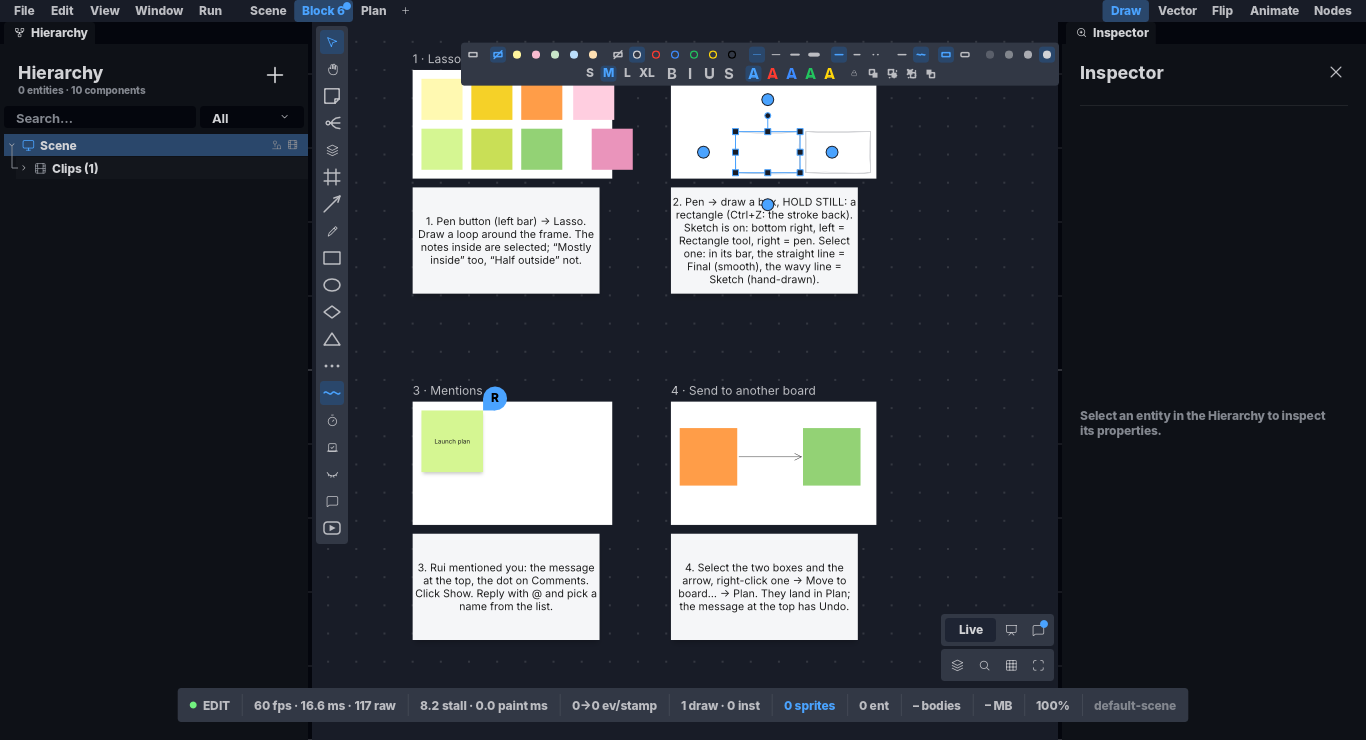
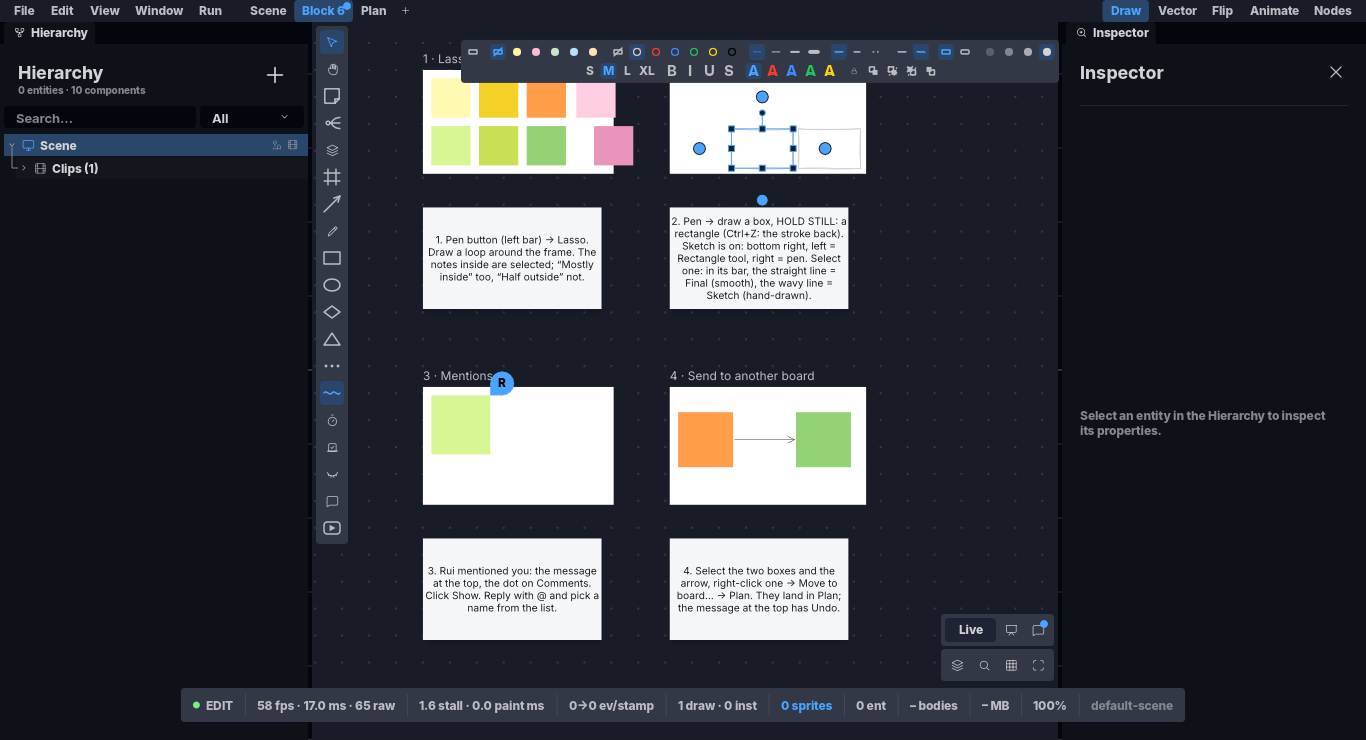
fix(MiroClone W23 cena 28): as lições a 4×GAP dos frames — com o exemplo de ② seleccionado à abertura, os pontos de ligação tapavam a 1.ª linha da lição ② (fotos 1366/1930); centrar os exemplos foi recusado: a 1366 a barra da forma descia para cima da lição

diff --git a/crates/ph2d-app-board/src/smoke_w23_block6.rs b/crates/ph2d-app-board/src/smoke_w23_block6.rs
@@ -47,6 +47,10 @@ const F4: [f64; 4] = [F2[0], ROW2, F2[2], 420.0];
 /// Os exemplos do rascunho no canto de baixo à direita de ②: a caixa e o vão.
 const EXAMPLE: [f64; 2] = [220.0, 140.0];
 const EXAMPLE_GAP: f64 = 20.0;
+/// O vão entre um frame e a lição dele: a cena abre com o exemplo de ② seleccionado, e os pontos de
+/// ligação (32 px de ecrã abaixo da caixa, ~110 do mundo a 1366) tapavam a 1.ª linha da lição com o
+/// vão das notas (fotos de 22/10).
+const LESSON_GAP: f64 = 4.0 * GAP;
 /// A escala de nascença dos exemplos: a do zoom com que a cena abre a 1366 (~0,293, um px = 3,4 do
 /// mundo; quartos de oitava, `BirthScale::of_px`).
 const OPEN_BIRTH: ph2d_board_model::BirthScale = ph2d_board_model::BirthScale(7);
@@ -131,7 +135,11 @@ pub(crate) fn scene_block6(hero: &mut HeroScreen) -> Block6 {
             ShapeType::StickyWide,
             0,
             super::note_text(&key),
-            [f[0], f[1] + f[3] + GAP, f[2].min(2.0 * STICKY_SIDE * 1.6)],
+            [
+                f[0],
+                f[1] + f[3] + LESSON_GAP,
+                f[2].min(2.0 * STICKY_SIDE * 1.6),
+            ],
         );
     }
     set.get_mut(board).expect("acabou de nascer").sketch = true;
